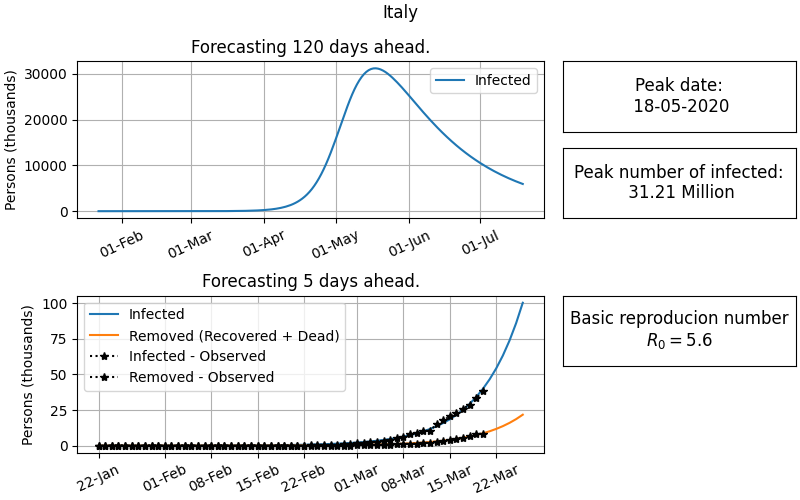
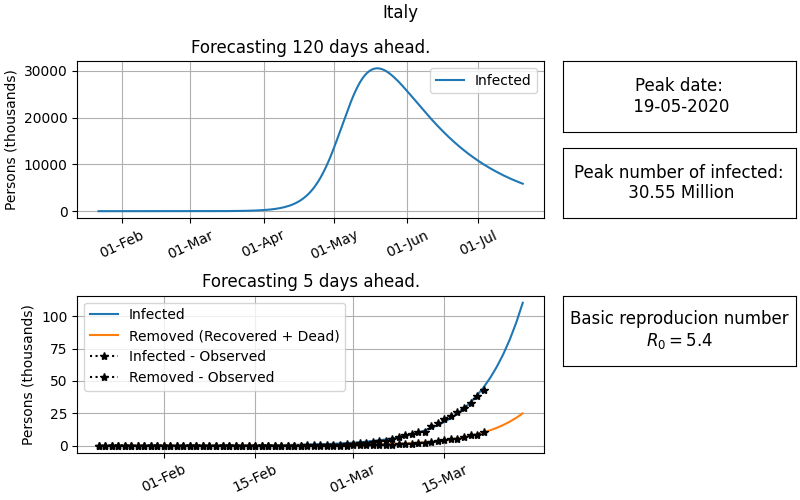
Added "main" methods to each step: get_data, prep_data, forecast, plot compile readme. Collected all steps in a main script.

diff --git a/admin/make_new_forecast.py b/admin/make_new_forecast.py
@@ -5,40 +5,44 @@ import pickle
 from datetime import datetime
 from forecast import forecast_countries, Params, extract_cssegi_forecast_info, plot_forecast, save_plot
 
-OUT_TIME_SERIES_FOLDER = '../data/forecasts/time_series'
-OUT_INFO_FOLDER = '../data/forecasts/info'
-OUT_PLOT_FOLDER = '../forecast_plots'
-DATA_FILE = '../data/pre-processed/cssegi_sand_data/cssegi_agg_data.pickle'
-N_DAYS_PREDICT = 400
-COUNTRIES = ['Denmark', 'Spain', 'Iran', 'Italy', 'Sweden']
-SEED = 42
 
-df_all = pd.read_pickle(DATA_FILE)
+def main():
+    OUT_TIME_SERIES_FOLDER = '../data/forecasts/time_series'
+    OUT_INFO_FOLDER = '../data/forecasts/info'
+    DATA_FILE = '../data/pre-processed/cssegi_sand_data/cssegi_agg_data.pickle'
+    N_DAYS_PREDICT = 400
+    COUNTRIES = ['Denmark', 'Spain', 'Iran', 'Italy', 'Sweden']
+    SEED = 42
 
-logging.basicConfig(level=logging.INFO)
+    df_all = pd.read_pickle(DATA_FILE)
 
-start_params = {
-    'Denmark': Params(beta=1.4863183028145124, gamma=0.9927890258623339, I0=1e-7),
-    # 'China': StartParams(beta=0.35, gamma=0.04, I0=200)
-}
+    logging.basicConfig(level=logging.INFO)
 
-df_forecasts, forecast_info_collection = forecast_countries(
-    df_all,
-    col_country='country',
-    extract_forecast_info=extract_cssegi_forecast_info,
-    n_days_predict=N_DAYS_PREDICT,
-    start_params_collection=start_params,
-    countries=COUNTRIES,
-    seed=SEED
-)
-update_time = datetime.now().strftime('%Y-%m-%d')
+    start_params = {
+        'Denmark': Params(beta=1.4863183028145124, gamma=0.9927890258623339, I0=1e-7),
+        # 'China': StartParams(beta=0.35, gamma=0.04, I0=200)
+    }
 
-forecast_file_path = op.join(OUT_TIME_SERIES_FOLDER, update_time + '.pickle')
-with open(forecast_file_path, 'wb') as forecast_file:
-    pd.to_pickle(df_forecasts, forecast_file)
+    df_forecasts, forecast_info_collection = forecast_countries(
+        df_all,
+        col_country='country',
+        extract_forecast_info=extract_cssegi_forecast_info,
+        n_days_predict=N_DAYS_PREDICT,
+        start_params_collection=start_params,
+        countries=COUNTRIES,
+        seed=SEED
+    )
+    update_time = datetime.now().strftime('%Y-%m-%d')
 
-forecast_infos_file_path = op.join(OUT_INFO_FOLDER, update_time + '.pickle')
-with open(forecast_infos_file_path, 'wb') as forecast_info_file:
-    pickle.dump(forecast_info_collection, forecast_info_file)
+    forecast_file_path = op.join(OUT_TIME_SERIES_FOLDER, update_time + '.pickle')
+    with open(forecast_file_path, 'wb') as forecast_file:
+        pd.to_pickle(df_forecasts, forecast_file)
 
+    forecast_infos_file_path = op.join(OUT_INFO_FOLDER, update_time + '.pickle')
+    with open(forecast_infos_file_path, 'wb') as forecast_info_file:
+        pickle.dump(forecast_info_collection, forecast_info_file)
 
+    return update_time
+
+if __name__ == '__main__':
+    main()

diff --git a/get_data/download_cssegi_sand_data.py b/get_data/download_cssegi_sand_data.py
@@ -2,16 +2,21 @@ import requests
 import os
 import os.path as op
 
-confirmed_url = "https://raw.githubusercontent.com/CSSEGISandData/COVID-19/master/csse_covid_19_data/csse_covid_19_time_series/time_series_19-covid-Confirmed.csv"
-deaths_url = "https://raw.githubusercontent.com/CSSEGISandData/COVID-19/master/csse_covid_19_data/csse_covid_19_time_series/time_series_19-covid-Deaths.csv"
-recovered_url = "https://raw.githubusercontent.com/CSSEGISandData/COVID-19/master/csse_covid_19_data/csse_covid_19_time_series/time_series_19-covid-Recovered.csv"
 
-FOLDER = '../data/raw/cssegi_sand_data'
-os.makedirs(FOLDER, exist_ok=True)
+def main():
+    confirmed_url = "https://raw.githubusercontent.com/CSSEGISandData/COVID-19/master/csse_covid_19_data/csse_covid_19_time_series/time_series_19-covid-Confirmed.csv"
+    deaths_url = "https://raw.githubusercontent.com/CSSEGISandData/COVID-19/master/csse_covid_19_data/csse_covid_19_time_series/time_series_19-covid-Deaths.csv"
+    recovered_url = "https://raw.githubusercontent.com/CSSEGISandData/COVID-19/master/csse_covid_19_data/csse_covid_19_time_series/time_series_19-covid-Recovered.csv"
 
-for url in [confirmed_url, deaths_url, recovered_url]:
-    resp = requests.get(url)
-    filename = op.basename(url)
-    csv_file_path = op.join(FOLDER, filename)
-    with open(csv_file_path, 'wb') as csv_file:
-        csv_file.write(resp.content)
+    FOLDER = '../data/raw/cssegi_sand_data'
+    os.makedirs(FOLDER, exist_ok=True)
+
+    for url in [confirmed_url, deaths_url, recovered_url]:
+        resp = requests.get(url)
+        filename = op.basename(url)
+        csv_file_path = op.join(FOLDER, filename)
+        with open(csv_file_path, 'wb') as csv_file:
+            csv_file.write(resp.content)
+
+if __name__ == '__main__':
+    main()

diff --git a/admin/make_forecast_plots.py b/admin/make_forecast_plots.py
@@ -1,18 +1,20 @@
 import pandas as pd
 import os.path as op
 from forecast import plot_forecast, save_plot
+import logging
 
+logger = logging.getLogger(__name__)
 OUT_TIME_SERIES_FOLDER = '../data/forecasts/time_series'
 OUT_INFO_FOLDER = '../data/forecasts/info'
 OUT_PLOT_FOLDER = '../forecast_plots'
 
 
-def plot_forcasts(forecast_date):
+def main(forecast_date):
     df_forecasts = pd.read_pickle(op.join(OUT_TIME_SERIES_FOLDER, f'{forecast_date}.pickle'))
     forecast_info_collection = pd.read_pickle(op.join(OUT_INFO_FOLDER, f'{forecast_date}.pickle'))
 
     for country in df_forecasts.country.unique():
-        print(f'Plotting {country}')
+        logger.info(f'Plotting {country} ...')
         df_plot = df_forecasts[df_forecasts.country == country].copy()
         forecast_info = forecast_info_collection.get(country)
         fig = plot_forecast(df_plot, forecast_info, days_short_term=5, days_long_term=120)
@@ -23,4 +25,4 @@ def plot_forcasts(forecast_date):
 
 
 if __name__ == '__main__':
-    plot_forcasts('2020-03-21')
+    main('2020-03-21')

diff --git a/admin/make_readme.py b/admin/make_readme.py
@@ -2,6 +2,12 @@ from typing import List
 import os.path as op
 from datetime import datetime
 from dateutil import parser as dateparser
+import glob
+from configparser import ConfigParser
+import logging
+
+logger = logging.getLogger(__name__)
+
 
 FORECAST_PLOT_FOLDER = '../forecast_plots'
 README_FILE = '../README.md'
@@ -65,9 +71,8 @@ def extract_country(plot_filepath):
     return country.capitalize()
 
 
-if __name__ == '__main__':
-    import glob
-    from configparser import ConfigParser
+def main():
+    logger.info('Compiling README ...')
     config = ConfigParser()
     forecast_plots_paths = sorted(glob.glob(op.join(FORECAST_PLOT_FOLDER, '*.png')))
     forecast_info_paths = sorted(glob.glob(op.join(FORECAST_PLOT_FOLDER, '*.ini')))
@@ -83,3 +88,7 @@ if __name__ == '__main__':
     readme_markdown = make_readme_markdown(plots_md, update_date)
     with open(README_FILE, 'w') as readme_file:
         readme_file.write(readme_markdown)
+
+
+if __name__ == '__main__':
+    main()

diff --git a/data_prep/cssegi_prep.py b/data_prep/cssegi_prep.py
@@ -78,7 +78,7 @@ def add_population(df, df_pop):
     return df
 
 
-if __name__ == '__main__':
+def main():
     CSV_WORLD_POP = '../data/raw/world_population.csv'
     CONFIRMED_CSV_FILE_PATH = '../data/raw/cssegi_sand_data/time_series_19-covid-Confirmed.csv'
     DEATHS_CSV_FILE_PATH = '../data/raw/cssegi_sand_data/time_series_19-covid-Deaths.csv'
@@ -91,3 +91,7 @@ if __name__ == '__main__':
         world_pop_csv=CSV_WORLD_POP,
         output_folder=PRE_PROCESSED_DATA_FOLDER
     )
+
+
+if __name__ == '__main__':
+    main()

diff --git a/admin/main.py b/admin/main.py
@@ -1,0 +1,11 @@
+from get_data.download_cssegi_sand_data import main as get_data
+from data_prep.cssegi_prep import main as data_prep
+from admin.make_new_forecast import main as calc_forecast
+from admin.make_forecast_plots import main as plot_forecast
+from admin.make_readme import main as make_readme
+
+get_data()
+data_prep()
+update_time = calc_forecast()
+plot_forecast(update_time)
+make_readme()

diff --git a/README.md b/README.md
@@ -4,7 +4,7 @@
 Attempt to forecast the number of cases of COVID-19 around the world using the simple [SIR model][sir_model_wiki].
 
 ## Forecasts
-*Updated: 21-03-2020*
+*Updated: 22-03-2020*
 
 Forecasts are based on the simple [SIR model][sir_model_wiki] which assumes
 an individual can be in one of three states,
@@ -21,23 +21,23 @@ Data is downloaded from *Johns Hopkins University Center for Systems Science and
 ### Plots
 |![Denmark](forecast_plots/denmark_SIR.png)|
 |:----------------------------------------:|
-| *Latest data point: 15-03-2020*|
+| *Latest data point: 21-03-2020*|
 
 |![Iran](forecast_plots/iran_SIR.png)|
 |:----------------------------------------:|
-| *Latest data point: 15-03-2020*|
+| *Latest data point: 21-03-2020*|
 
 |![Italy](forecast_plots/italy_SIR.png)|
 |:----------------------------------------:|
-| *Latest data point: 15-03-2020*|
+| *Latest data point: 21-03-2020*|
 
 |![Spain](forecast_plots/spain_SIR.png)|
 |:----------------------------------------:|
-| *Latest data point: 15-03-2020*|
+| *Latest data point: 21-03-2020*|
 
 |![Sweden](forecast_plots/sweden_SIR.png)|
 |:----------------------------------------:|
-| *Latest data point: 15-03-2020*|
+| *Latest data point: 21-03-2020*|
 
 [sir_model_wiki]: https://en.wikipedia.org/wiki/Compartmental_models_in_epidemiology#The_SIR_model
 [csse-data-repo]: https://github.com/CSSEGISandData/COVID-19
